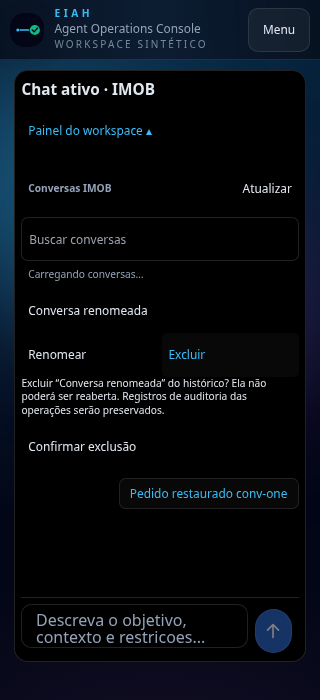
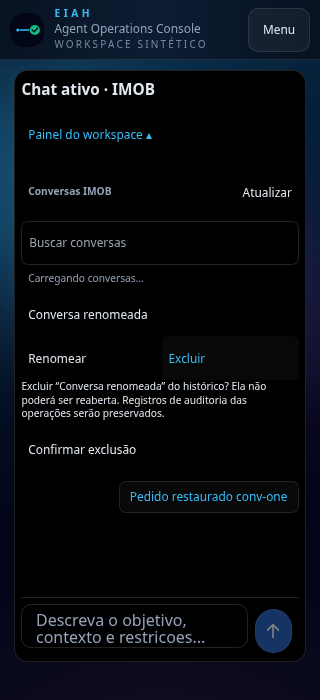
style(front-door): place active vertical heading in left sidebar

diff --git a/apps/web/src/components/agents/FrontDoorSessionHeader.test.tsx b/apps/web/src/components/agents/FrontDoorSessionHeader.test.tsx
@@ -54,7 +54,7 @@ findSidebar(launcherSource);
 assert.ok(sidebar);
 const renderSidebar = new Function(
   "React", "FrontDoorSidebar", "ContextualCostPanel", "headerControls", "workspaceBillingContext",
-  "copyToast", "runId", "activeRunFinance", "estimatedRunCostCents", "onPlaybookClick", "showImobSurface", "handleNewConversation", "FrontDoorConversationSequence", "messages",
+  "copyToast", "runId", "activeRunFinance", "estimatedRunCostCents", "onPlaybookClick", "showImobSurface", "handleNewConversation", "FrontDoorConversationSequence", "messages", "FrontDoorSessionHeader", "session",
   ts.transpileModule(`return (${sidebar.getText(launcherSource)});`, {
     compilerOptions: { jsx: ts.JsxEmit.React, target: ts.ScriptTarget.ES2022 },
   }).outputText,
@@ -75,8 +75,9 @@ for (const [activeDomain, expectedLabel] of [["imob", "IMOB"], ["logistica", "Lo
         React, FrontDoorSidebar, ContextualCostPanel,
         <span>{selectedAgent ?? "Selecione um agente"}</span>,
         { monthUsageCents: 12345, workspaceRuns: 7, quotaPercent: 37, softLimitCents: 20000, hardLimitCents: 40000 },
-        null, null, null, null, undefined, false, () => undefined, FrontDoorConversationSequence, [],
+        null, null, null, null, undefined, false, () => undefined, FrontDoorConversationSequence, [], FrontDoorSessionHeader, { activeDomain },
       ));
+      assert.ok(sidebarHtml.includes(`Chat ativo · ${expectedLabel}`));
       assert.ok(sidebarHtml.includes(selectedAgent ?? "Selecione um agente"));
       assert.match(sidebarHtml, /Workspace no mês: R\$.*123,45/);
       assert.match(sidebarHtml, /Quota: 37%/);

diff --git a/apps/web/src/components/agents/FrontDoorSidebar.tsx b/apps/web/src/components/agents/FrontDoorSidebar.tsx
@@ -1,7 +1,8 @@
 import React, { useId, useRef, useState, type ReactNode } from "react";
 
 /** Painel de apresentação: recebe valores e controles já resolvidos pelo runtime. */
-export default function FrontDoorSidebar({ status, controls, actions, sequence, history, children }: {
+export default function FrontDoorSidebar({ heading, status, controls, actions, sequence, history, children }: {
+  heading?: ReactNode;
   status?: ReactNode;
   controls?: ReactNode;
   actions?: ReactNode;
@@ -27,6 +28,7 @@ export default function FrontDoorSidebar({ status, controls, actions, sequence, 
           mobileToggle.current?.focus();
         }
       }}>
+      {heading ? <div className={`front-door-sidebar-heading min-w-0 ${desktopOpen ? "lg:block" : "lg:hidden"}`}>{heading}</div> : null}
       <button ref={mobileToggle} type="button" aria-expanded={mobileOpen} aria-controls={panelId}
         className="lg:hidden" onClick={() => setMobileOpen((open) => !open)}>
         Painel do workspace {mobileOpen ? "▴" : "▾"}

diff --git a/apps/web/src/components/agents/ChatAgentLauncher.tsx b/apps/web/src/components/agents/ChatAgentLauncher.tsx
@@ -1867,10 +1867,9 @@ export default function ChatAgentLauncher({
 
   return (
     <section className="front-door-launcher relative flex min-w-0 flex-col rounded-2xl border border-white/10 bg-black p-2 sm:p-3">
-      <FrontDoorSessionHeader activeDomain={session.activeDomain}>{null}</FrontDoorSessionHeader>
-
       <div className="front-door-workspace relative z-10 flex min-h-0 flex-1 flex-col gap-2 lg:flex-row lg:gap-3">
         <FrontDoorSidebar
+          heading={<FrontDoorSessionHeader activeDomain={session.activeDomain}>{null}</FrontDoorSessionHeader>}
           actions={<button type="button" data-sidebar-navigation="true" onClick={handleNewConversation}>Nova conversa</button>}
           sequence={<FrontDoorConversationSequence messages={messages} onNavigate={(messageId) => {
             const target = Array.from(scrollRef.current?.querySelectorAll<HTMLElement>("[data-message-id]") ?? []).find((element) => element.dataset.messageId === messageId);

diff --git a/docs/evidence/front-door-compact-sequence/README.md b/docs/evidence/front-door-compact-sequence/README.md
@@ -3,3 +3,5 @@ Resumo da sequência compacto e recolhível, inicialmente fechado. Fonte menor, 
 Validação real: 29 testes de sequência/cabeçalho PASS; quatro cenários Chromium (320, 390, 1024, 1440) PASS com API e dados sintéticos. Verifica abrir/recolher/reabrir, navegação e regressão de busca/rename/delete/retomada. Capturas sequence-*.png mostram painel expandido. Não comprova staging. Status parcial: CI e deploy pendentes.
 
 Atualização do compositor: botão circular azul com SVG de seta para cima, nome acessível Enviar mensagem, mesmo handleSend/canSend e estado de upload; grid mantém botão ao lado do campo e aprovação em linha própria. Bordas brancas existentes com alpha multiplicado por 1,3 (10% para 13%, 8% para 10,4% e 5% para 6,5%); menus sem borda preservados. Nova execução: 29 testes PASS e quatro cenários Chromium PASS, incluindo posição na mesma linha e habilitação ao preencher/limpar. Logs composer-tests.log e composer-browser.log.
+
+Título Chat ativo · vertical movido para o topo da coluna esquerda, via heading do FrontDoorSidebar; coluna direita dedicada à conversa. Desktop recolhido oculta o título junto do painel; mobile mantém identificação acima do controle. Validação: 27 testes de cabeçalho PASS e quatro cenários Chromium PASS, incluindo título dentro do aside. Evidências sidebar-heading-tests.log/sidebar-heading-browser.log e capturas atualizadas. CI/deploy pendentes.
